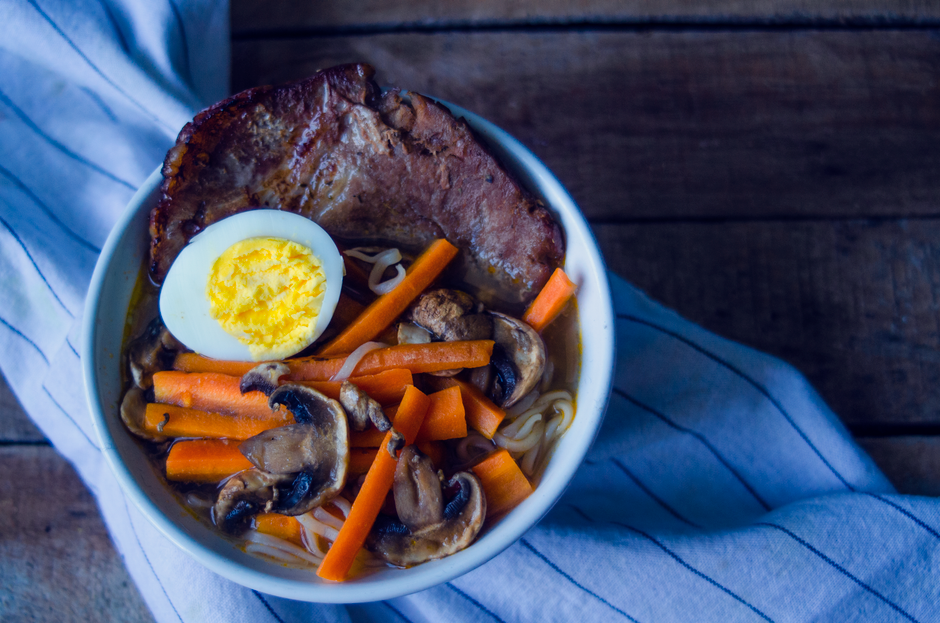
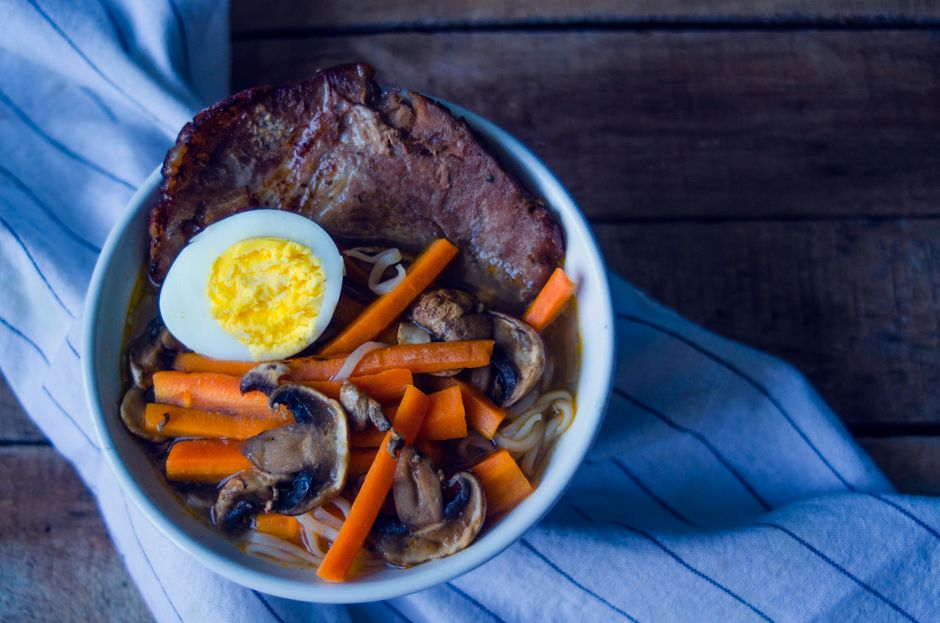
Checkup: pantry ranking and synonyms, meal-plan filter fixes, photo cleanup
Claude-Session: https://claude.ai/code/session_01PicnGN4hbWkSuCDrzfcG8M

diff --git a/backend/routes/pantry_routes.py b/backend/routes/pantry_routes.py
@@ -126,6 +126,39 @@ def _tokens(name: str) -> frozenset:
     return frozenset(w.rstrip("s") if len(w) > 3 else w for w in words if w not in _NOISE)
 
 
+# A general pantry word also covers its common specific forms in recipes.
+_GROUPS = {
+    "pasta": ["spaghetti", "penne", "fusilli", "linguine", "fettuccine", "tagliatelle", "macaroni", "rigatoni", "lasagne", "lasagna", "farfalle", "orzo"],
+    "rice": ["basmati", "jasmine", "arborio", "risotto"],
+    "cheese": ["cheddar", "mozzarella", "parmesan", "feta", "halloumi", "gruyere", "ricotta", "mascarpone", "pecorino", "gouda", "brie", "parmigiano"],
+    "mince": ["ground beef", "ground pork", "ground lamb", "ground turkey"],
+    "beef": ["steak", "brisket", "sirloin", "ribeye"],
+    "chicken": ["drumstick", "thigh", "wing"],
+    "bread": ["baguette", "ciabatta", "sourdough", "bun", "roll", "pitta", "pita"],
+    "beans": ["chickpea", "kidney bean", "black bean", "cannellini", "lentil", "haricot", "butter bean"],
+    "pepper": ["bell pepper", "capsicum"],
+    "tomato": ["passata", "tomatoes"],
+    "potato": ["potatoes", "new potato"],
+    "milk": ["cream", "buttermilk"],
+    "egg": ["eggs"],
+}
+
+
+def _pantry_groups(pantry_names):
+    """One group per pantry item: its own words plus any specific forms it stands for."""
+    groups = []
+    for n in pantry_names:
+        base = _tokens(n)
+        if not base:
+            continue
+        g = [base]
+        for word, alts in _GROUPS.items():
+            if word in {w.rstrip("s") for w in base} or word in base:
+                g += [t for t in (_tokens(a) for a in alts) if t]
+        groups.append(g)
+    return groups
+
+
 def _score_master(recipe_ings, pantry_token_sets, match_type, extra):
     """Word-level match: pantry 'chicken' covers 'chicken breast'; salt/water/oil count as always on hand."""
     names = []
@@ -134,15 +167,18 @@ def _score_master(recipe_ings, pantry_token_sets, match_type, extra):
         if n and n.strip():
             names.append(n.strip())
     if not names:
-        return False, 0, 0, 0
+        return False, 0, 0, 0, 0
     matched = 0
+    used = set()   # which of the person's pantry items this recipe actually uses
     for n in names:
         if n.lower() in _STAPLES:
             matched += 1
             continue
         t = _tokens(n)
-        if t and any(p and (p <= t or t <= p) for p in pantry_token_sets):
+        hit = [i for i, grp in enumerate(pantry_token_sets) if t and any(p <= t or t <= p for p in grp)]
+        if hit:
             matched += 1
+            used.update(hit)
     total = len(names)
     missing = total - matched
     pct = round(matched / total * 100)
@@ -153,7 +189,9 @@ def _score_master(recipe_ings, pantry_token_sets, match_type, extra):
     else:
         ok = pct >= 30
     real = matched - sum(1 for n in names if n.lower() in _STAPLES)
-    return (ok and real > 0), pct, matched, missing
+    # with 2+ pantry items, a recipe has to use at least 2 of them (a 1-item omelette is not a "match" for chicken+rice+onion)
+    enough = len(used) >= min(2, len(pantry_token_sets))
+    return (ok and real > 0 and enough), pct, matched, missing, len(used)
 
 # ── Suggest meal ──────────────────────────────────────────────────────────────
 
@@ -229,13 +267,13 @@ async def suggest_meal(suggestion_request: MealSuggestionRequest, request: Reque
     # 1b. Shared master recipes — pure Python, free
     master_matches = []
     try:
-        pantry_token_sets = [t for t in (_tokens(n) for n in pantry_lookup) if t]
+        pantry_token_sets = _pantry_groups(pantry_lookup)
         async for recipe in db.recipes.find(
             {"user_id": "system_seeder"},
             {"_id": 0, "recipe_id": 1, "title": 1, "description": 1, "image": 1, "prep_time": 1, "cook_time": 1,
              "difficulty": 1, "servings": 1, "ingredients": 1, "tags": 1},
         ):
-            ok, pct, matched, missing = _score_master(recipe.get("ingredients", []), pantry_token_sets, mt, extra)
+            ok, pct, matched, missing, used = _score_master(recipe.get("ingredients", []), pantry_token_sets, mt, extra)
             if ok:
                 master_matches.append({
                     "recipe_id": recipe["recipe_id"],
@@ -251,10 +289,11 @@ async def suggest_meal(suggestion_request: MealSuggestionRequest, request: Reque
                     "total_ingredients": matched + missing,
                     "missing_ingredients": missing,
                     "source": "master",
+                    "pantry_items_used": used,
                     "ingredients": recipe.get("ingredients", []),
                     "tags": recipe.get("tags", []),
                 })
-        master_matches.sort(key=lambda x: (-x["match_percentage"], x["missing_ingredients"]))
+        master_matches.sort(key=lambda x: (-x["pantry_items_used"], -x["match_percentage"], x["missing_ingredients"]))
         master_matches = master_matches[:8]
     except Exception as e:
         logger.info(f"Master recipe search error: {e}")

diff --git a/tests/test_regressions.py b/tests/test_regressions.py
@@ -1,0 +1,34 @@
+import sys
+from pathlib import Path
+sys.path.insert(0, str(Path(__file__).resolve().parent.parent / "backend"))
+import os; os.environ.setdefault("JWT_SECRET", "x")
+from meal_plan_builder import slot_kinds
+from recipe_tagger import is_dessert
+import pytest
+
+def rec(title, n=8, tags=()):
+    return {"title": title, "tags": list(tags), "ingredients": [{"item": f"thing{i}", "amount": "1"} for i in range(n)], "steps": ["Cook it well."] * 5}
+
+def test_dessert_bars_not_a_meal():
+    for t in ["Dark Chocolate Rocky Road Dessert Bars", "Salted Caramels", "Peanut Butter Bars"]:
+        assert is_dessert(rec(t)), t
+        assert "dinner" not in slot_kinds(rec(t)), t
+
+def test_snacks_and_dips_not_a_meal():
+    for t in ["Nacho chips", "Spiced nuts", "Party ideas roundup", "Padron peppers"]:
+        assert "dinner" not in slot_kinds(rec(t, n=3)), t
+
+def test_real_dinner_still_a_dinner():
+    assert "dinner" in slot_kinds(rec("Chicken Tikka Masala", n=10))
+
+def ings(*names): return [{"item": n, "amount": "1"} for n in names]
+
+def test_pasta_matches_spaghetti_and_needs_two_pantry_items():
+    pytest.importorskip('emergentintegrations')  # pantry routes import it; skipped where it isn't installed
+    from routes.pantry_routes import _score_master, _pantry_groups
+    groups = _pantry_groups(["pasta", "egg", "bacon"])
+    ok, pct, matched, missing, used = _score_master(ings("Spaghetti", "Eggs", "Bacon", "Salt"), groups, "most", 1)
+    assert ok and used == 3
+    # a recipe that only uses one of three pantry items is not a match
+    ok, *_ = _score_master(ings("Eggs", "Salt", "Oil"), groups, "most", 1)
+    assert not ok

diff --git a/backend/meal_plan_builder.py b/backend/meal_plan_builder.py
@@ -22,7 +22,7 @@ def _words(text):
     return {w.rstrip("s") for w in re.findall(r"[a-z]+", (text or "").lower()) if w not in STOP and len(w) > 2}
 
 
-NOT_A_MEAL = r"\bbuns?\b|sauce\b|dressing|marinade|\bdips?\b|syrup|relish|chutney|\bjam\b|stuffing|side dish|\bglaze\b|\bstock\b|\brub\b|vinaigrette|compote|pickle|parfait|smoothie|ugali|pretzel|queso|guacamole|hummus|salsa|chips\\b|crisps|nuts\\b|olives|sauerkraut|kimchi|roundup|collection|ideas\\b|\\bgroup\\b"
+NOT_A_MEAL = r"\bbuns?\b|sauce\b|dressing|marinade|\bdips?\b|syrup|relish|chutney|\bjam\b|stuffing|side dish|\bglaze\b|\bstock\b|\brub\b|vinaigrette|compote|brioche|\bloaf\b|pickle|parfait|smoothie|ugali|pretzel|queso|guacamole|hummus|salsa|chips\b|crisps|nuts\b|olives|sauerkraut|kimchi|roundup|collection|ideas\b|\bgroup\b"
 LIGHT = r"salad|soup|sandwich|wrap|toastie|panini|slaw"
 MAIN_TAGS = {"dinner", "main course", "main dish"}
 

diff --git a/backend/recipe_tagger.py b/backend/recipe_tagger.py
@@ -12,7 +12,7 @@ def is_dessert(r) -> bool:
     t = (r.get("title") or "").lower()
     tags = set(x.lower() for x in r.get("tags") or [] if isinstance(x, str))
     return (r.get("category") == "dessert") or bool(tags & {"dessert", "desert", "cake", "pudding", "baking", "sweet"}) or bool(
-        re.search(r"cake|pudding|curd|delight|cookie|brownie|tart\b|pie\b|fudge|ice cream|mousse|cobbler|crumble|biscuit|muffin|candy", t))
+        re.search(r"cake|pudding|curd|delight|cookie|brownie|tart\b|pie\b|fudge|ice cream|mousse|cobbler|crumble|biscuit|muffin|candy|dessert|\bbars?\b|rocky road|truffle|sundae|brittle|macaron|meringue|sorbet|gelato|caramels?\b", t))
 
 
 def types(r):

diff --git a/CHANGES.md b/CHANGES.md
@@ -85,3 +85,9 @@ Applied on top of CookMe-feature-updates (March 2026 snapshot).
 - `backend/recipe_cleaner.py` + `scripts/clean_recipes.py`: drops label steps ("step 1", "2", "▢"), strips step numbers, splits one-paragraph methods into readable steps, fixes amounts ("1.0 cup" -> "1 cup", "White"+"Rice" -> "White Rice").
 - Applied to `data/master_recipes.json`: 990 recipes tidied, 23 too thin to cook from moved to `data/master_recipes_rejected.json` (1,180 kept).
 - `scripts/load_master_recipes.py --apply --prune` also removes master recipes that are no longer in the file (never touches user recipes).
+
+## Checkup fixes
+- Pantry suggestions now rank by how many of your pantry items a recipe uses (and need 2+ when you have 2+), with synonyms ("pasta" covers spaghetti/penne, "cheese" covers cheddar/feta, etc.). Before, a 1-item omelette could outrank chicken-and-rice dishes.
+- Meal plans: fixed doubled-backslash typos that stopped the "not a meal" filter matching chips/nuts/ideas; desserts such as "Rocky Road Dessert Bars" and caramels no longer count as dinner.
+- Recipe photos: removed 6 unused files, recompressed the largest (max 182 KB).
+- New tests: `tests/test_regressions.py`.
